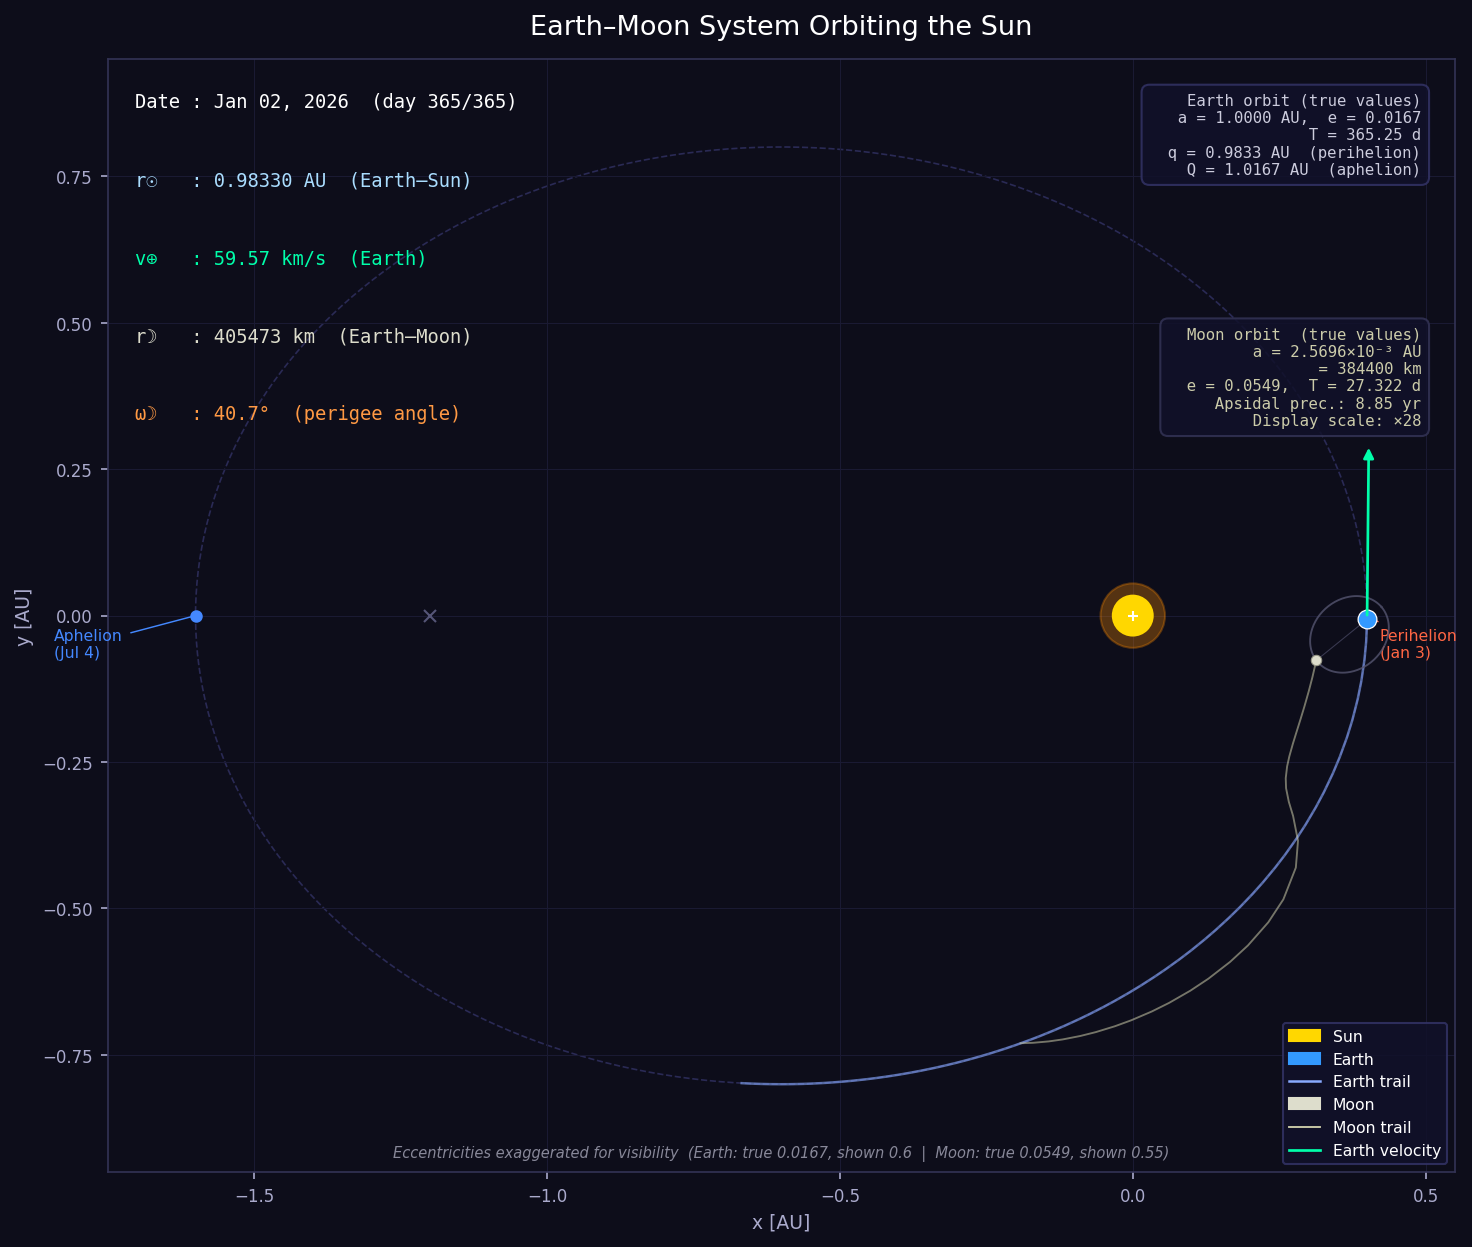
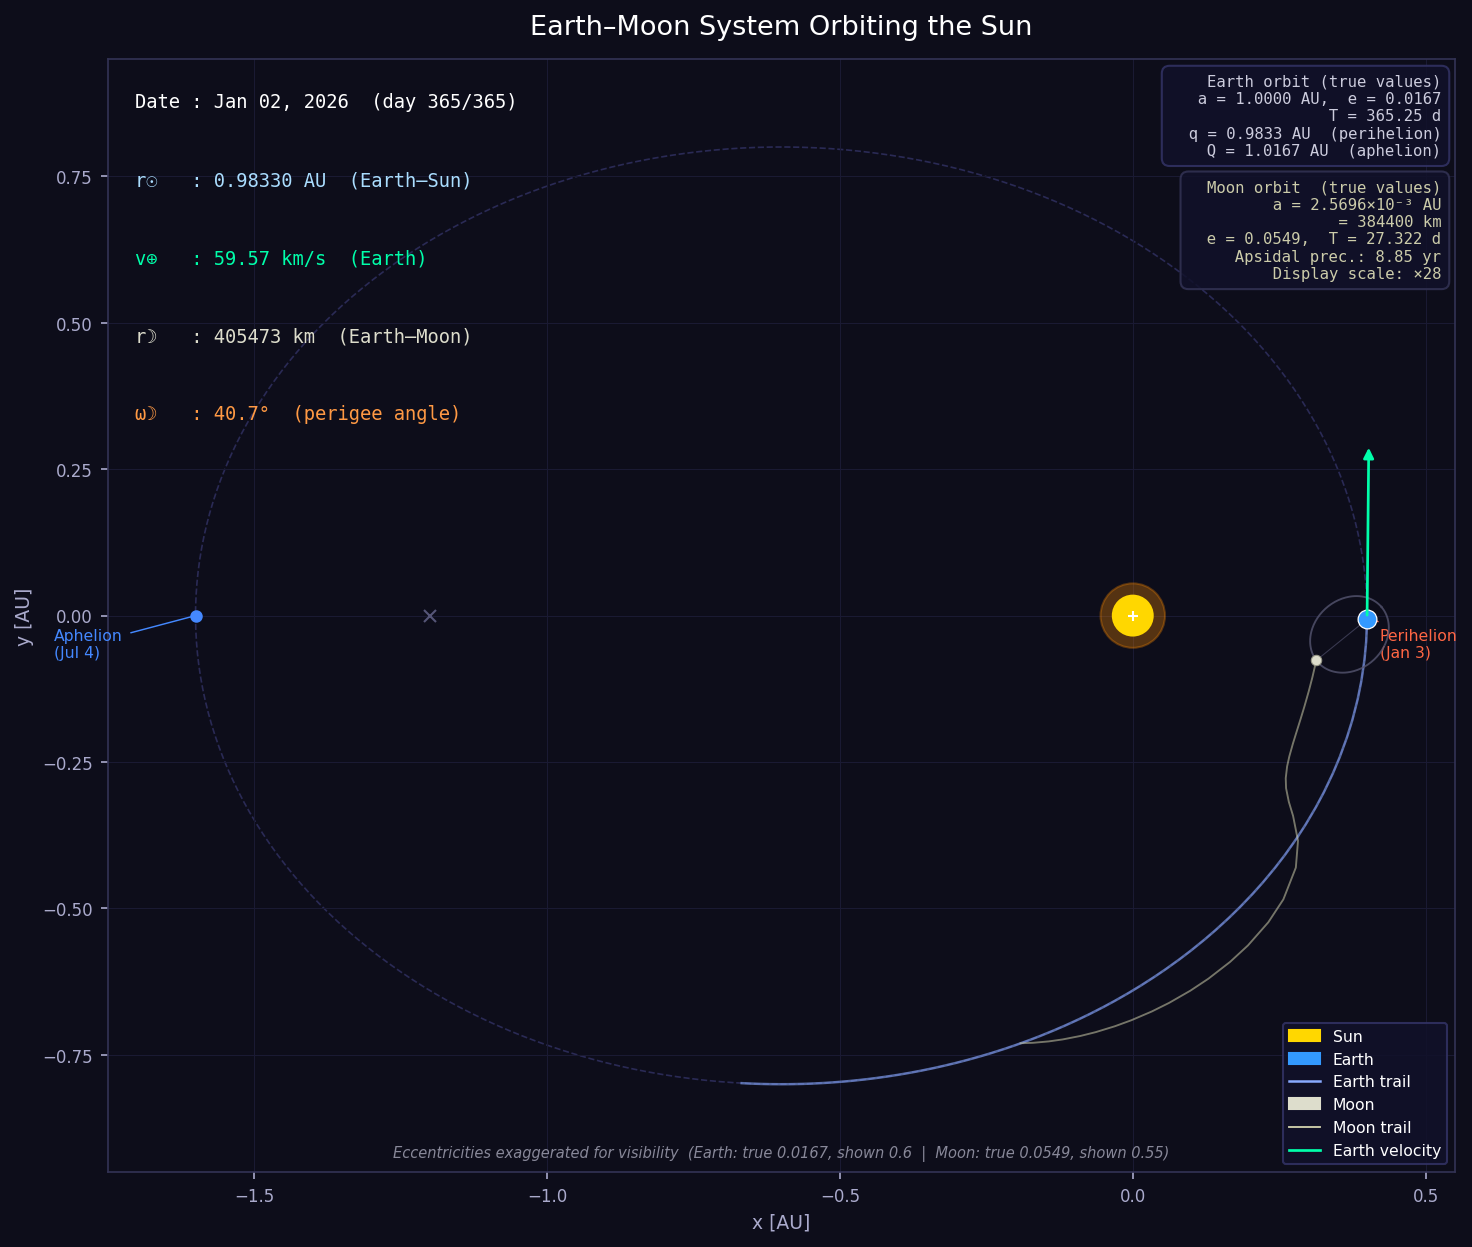
Reposition annotation boxes, update GIF

Changed region(s): [[0.7812, 0.0609, 1.0, 0.3657]]

diff --git a/main.py b/main.py
@@ -229,7 +229,7 @@ prec_text  = ax.text(0.02, 0.69, "", transform=ax.transAxes, fontsize=9,
                      color="#ff9944", va="top", fontfamily="monospace")
 
 # Info boxes
-ax.text(0.975, 0.97,
+ax.text(0.990, 0.987,
         "Earth orbit (true values)\n"
         f"  a = {A_E:.4f} AU,  e = {ECC_E:.4f}\n"
         f"  T = {T_E:.2f} d\n"
@@ -240,7 +240,7 @@ ax.text(0.975, 0.97,
         bbox=dict(boxstyle="round,pad=0.5", facecolor="#11112a",
                   edgecolor="#333366", alpha=0.85))
 
-ax.text(0.975, 0.76,
+ax.text(0.990, 0.892,
         "Moon orbit  (true values)\n"
         f"  a = {A_M*1e3:.4f}×10⁻³ AU\n"
         f"    = {A_M*149_597_870.7:.0f} km\n"
